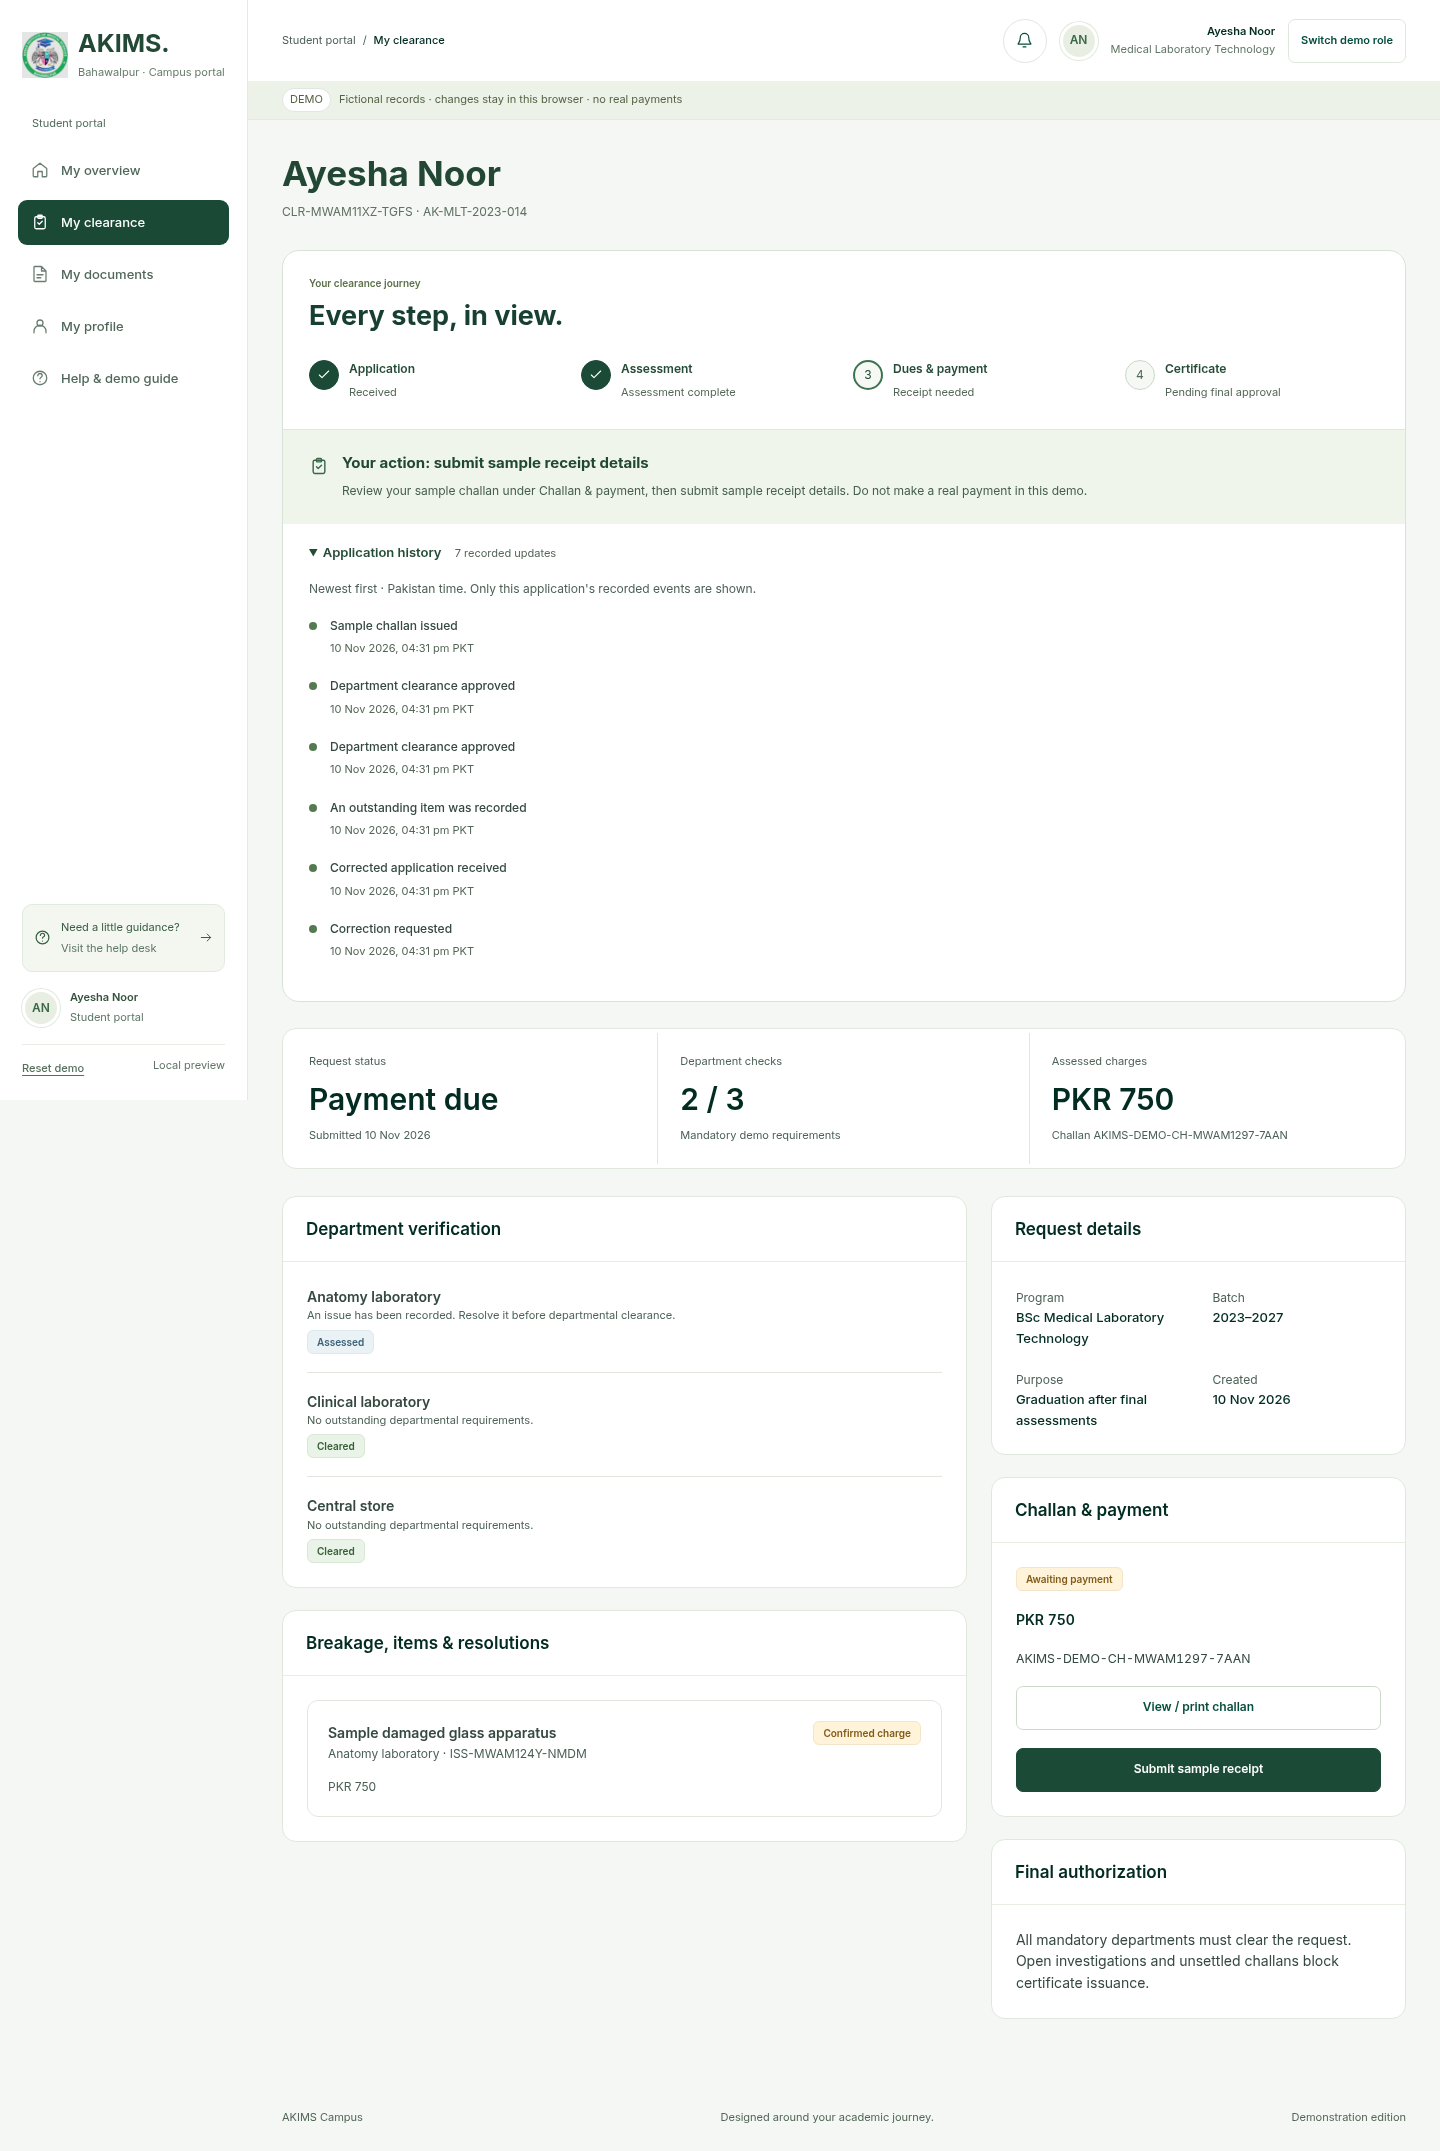
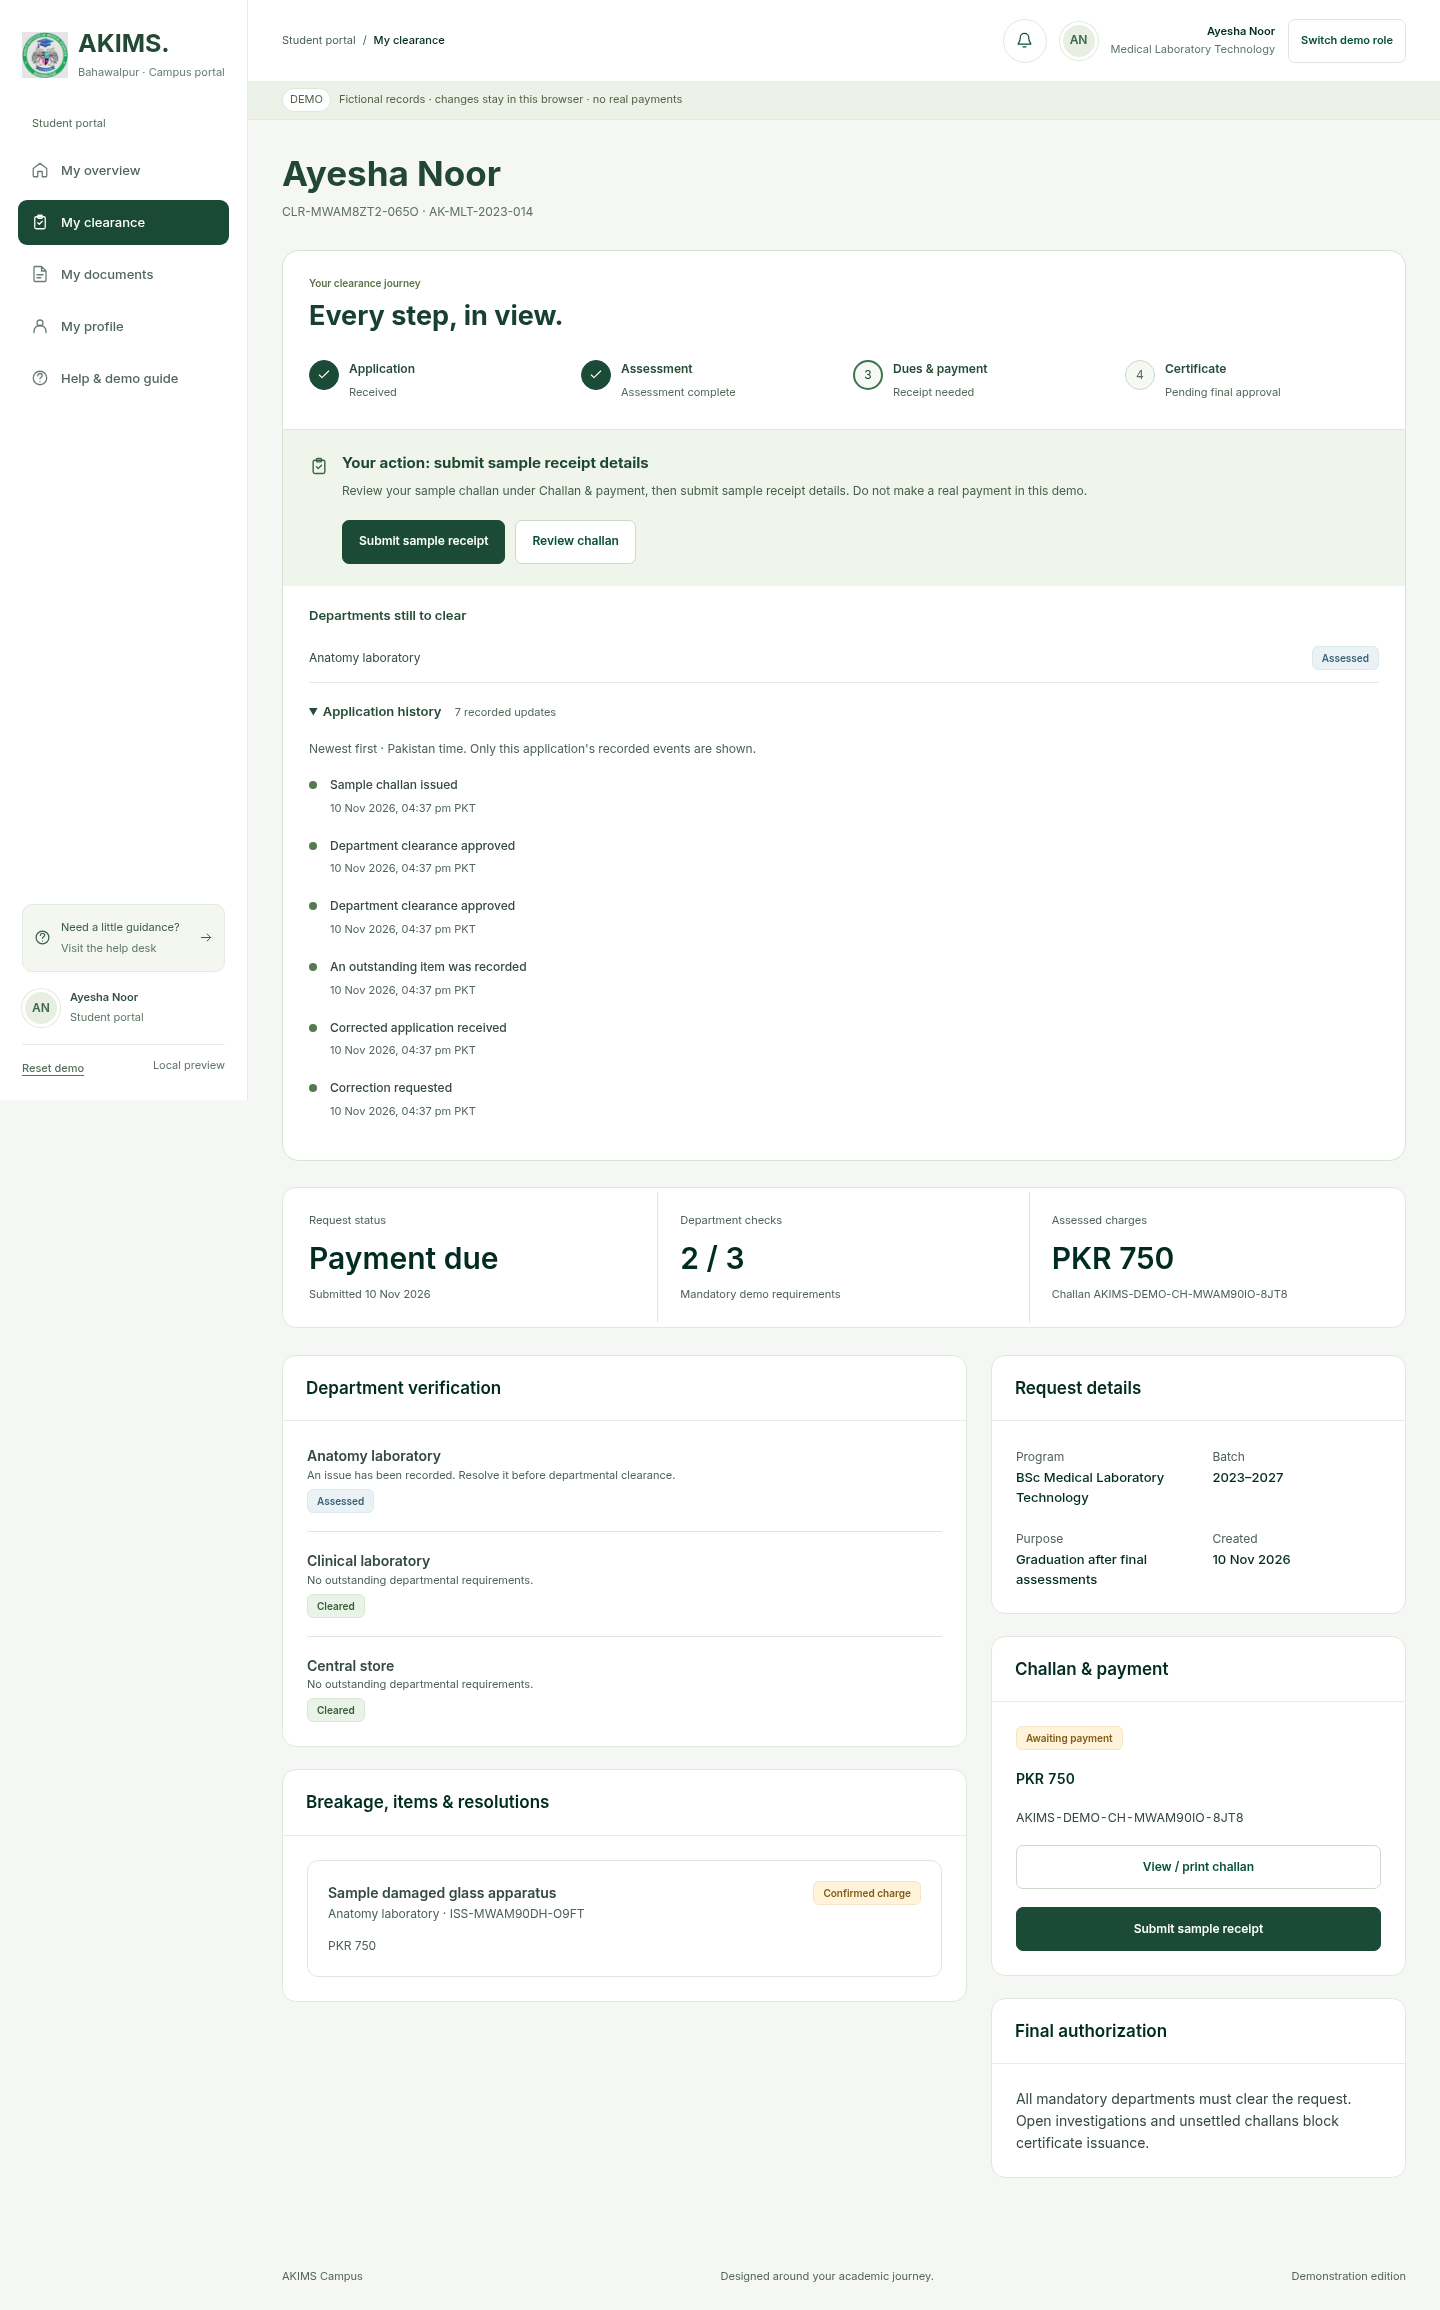
Add direct student clearance actions and pending department summary

diff --git a/script.js b/script.js
@@ -337,6 +337,16 @@
     else if (r.status === 'ready') { title = 'Waiting for final authorization'; message = 'All mandatory checks are complete. Administration must authorize clearance before a certificate becomes available.'; }
     else if (r.challan?.status === 'verified') { title = 'Payment verified; department clearance remains'; message = 'Accounts has verified the sample payment. Remaining departments must explicitly clear your request before final authorization.'; }
     else if (assessed && charges) { title = 'Administration is preparing your challan'; message = 'Confirmed dues have been assessed. Your sample challan will appear after Administration issues it.'; }
+    const actionButton = (label, control, primary = false) => button(label, 'tracking-action', `data-id="${h(r.id)}" data-control="${control}"`, primary ? 'primary' : 'secondary');
+    let shortcuts = '';
+    if (corrected) shortcuts = actionButton('Correct application', 'resubmit', true);
+    else if (revoked) shortcuts = actionButton('Contact & help', 'help', true);
+    else if (r.certificate) shortcuts = actionButton('Open certificate', 'certificate', true);
+    else if (r.challan?.status === 'unpaid') shortcuts = actionButton('Submit sample receipt', 'receipt', true) + actionButton('Review challan', 'challan');
+    else if (r.challan) shortcuts = actionButton('Review challan', 'challan');
+    const reason = corrected ? r.correctionNote : revoked ? r.certificate.reason : r.challan?.status === 'unpaid' ? r.challan.reviewNote : '';
+    const waiting = r.requirements.filter(q => q.status !== 'cleared');
+    const pending = !corrected && !revoked && !r.certificate && waiting.length ? `<div class="tracking-pending"><h3>Departments still to clear</h3><ul>${waiting.map(q => `<li><span>${h(department(q.departmentId).name)}</span>${badge(q.status)}</li>`).join('')}</ul></div>` : '';
     const labels = {createRequest:'Application received',requestCorrection:'Correction requested',resubmit:'Corrected application received',addIssue:'An outstanding item was recorded',resolveIssue:'An issue was resolved',assessDepartment:'Department assessment updated',issueChallan:'Sample challan issued',submitReceipt:'Sample receipt submitted',reviewReceipt:'Receipt review completed',finalize:'Clearance authorized; certificate issued',revokeCertificate:'Certificate revoked'};
     const events = state.audit.filter(e => e.requestId === r.id && Object.hasOwn(labels,e.action)).map(e => ({at:e.createdAt,label:e.action === 'reviewReceipt' ? (e.detail === 'Sample receipt returned for correction.' ? 'Receipt returned for correction' : 'Sample payment verified') : e.action === 'assessDepartment' && e.detail === 'Department assessment: cleared.' ? 'Department clearance approved' : labels[e.action]}));
     // Older demonstration records can lack event logs: show only dates actually stored.
@@ -345,7 +355,7 @@
     if (revoked && !events.some(e => e.label === labels.revokeCertificate)) events.push({at:r.certificate.revokedAt,label:labels.revokeCertificate});
     events.sort((a,b)=>new Date(b.at)-new Date(a.at));
     const stamp = value => new Date(value).toLocaleString('en-GB',{timeZone:'Asia/Karachi',day:'numeric',month:'short',year:'numeric',hour:'2-digit',minute:'2-digit',hour12:true});
-    return `<section class="request-tracking" aria-labelledby="tracking-title"><div class="tracking-heading"><span class="eyebrow">Your clearance journey</span><h2 id="tracking-title">Every step, in view.</h2></div><ol class="tracking-stages">${stages.map(([name,status,tone],i)=>`<li class="track-${tone}"><span class="stage-number" aria-hidden="true">${tone === 'done' ? icon('check') : i+1}</span><div><strong>${h(name)}</strong><span>${h(status)}</span></div></li>`).join('')}</ol><div class="tracking-next"><span>${icon('clipboard')}</span><div><h3>${h(title)}</h3><p>${h(message)}</p></div></div><details class="tracking-history"><summary>Application history <span>${events.length} recorded updates</span></summary><p class="small muted">Newest first · Pakistan time. Only this application's recorded events are shown.</p><ol tabindex="0" aria-label="Recorded application updates">${events.map(e=>`<li><span class="history-dot" aria-hidden="true"></span><div><strong>${h(e.label)}</strong><time datetime="${h(e.at)}">${h(stamp(e.at))} PKT</time></div></li>`).join('')}</ol></details></section>`;
+    return `<section class="request-tracking" aria-labelledby="tracking-title"><div class="tracking-heading"><span class="eyebrow">Your clearance journey</span><h2 id="tracking-title">Every step, in view.</h2></div><ol class="tracking-stages">${stages.map(([name,status,tone],i)=>`<li class="track-${tone}"><span class="stage-number" aria-hidden="true">${tone === 'done' ? icon('check') : i+1}</span><div><strong>${h(name)}</strong><span>${h(status)}</span></div></li>`).join('')}</ol><div class="tracking-next"><span>${icon('clipboard')}</span><div><h3>${h(title)}</h3><p>${h(message)}</p>${reason ? `<p class="tracking-reason"><strong>Recorded reason:</strong> ${h(reason)}</p>` : ''}${shortcuts ? `<div class="tracking-actions">${shortcuts}</div>` : ''}</div></div>${pending}<details class="tracking-history"><summary>Application history <span>${events.length} recorded updates</span></summary><p class="small muted">Newest first · Pakistan time. Only this application's recorded events are shown.</p><ol tabindex="0" aria-label="Recorded application updates">${events.map(e=>`<li><span class="history-dot" aria-hidden="true"></span><div><strong>${h(e.label)}</strong><time datetime="${h(e.at)}">${h(stamp(e.at))} PKT</time></div></li>`).join('')}</ol></details></section>`;
   }
   function requestDetail(r) {
     const s = student(r.studentId);
@@ -629,6 +639,18 @@
       if (action === 'account-help') {showDialog('Local account help', '<p>Use the email and demo password you created in this browser. Accounts do not sync between browsers or computers. Your sign-in email stays the same if you edit your profile contact email.</p><p>This offline edition cannot send reset emails. You can create another fictional account with a different registration and email, or use a sample workspace below.</p>'); return;}
       if (!actorId) return;
       const id = el.dataset.id;
+      if (action === 'tracking-action') {
+        const request = getRequest(id);
+        if (role() !== 'student' || request.studentId !== actor().studentId) throw new Error('This action is only available for your own application.');
+        const control = el.dataset.control;
+        if (control === 'help') { navigate('help'); return; }
+        const targets = {resubmit:'resubmit',receipt:'receipt',challan:'document',certificate:'document'};
+        const targetAction = targets[control];
+        const target = targetAction && [...document.querySelectorAll('main [data-action]')].find(b => b.dataset.action === targetAction && b.dataset.id === id && (!['challan','certificate'].includes(control) || b.dataset.kind === control));
+        if (!target || target.disabled) throw new Error('This action is no longer available. Review the current application status.');
+        target.click();
+        return;
+      }
       if (action === 'upload-file') showForm('Add a sample document', 'upload-file', select('Document category','category',['Student card','Academic document','Payment receipt','Other document'].map(x=>option(x,x)).join(''))+'<div class="field"><label for="sample-document">Sample file</label><input id="sample-document" name="document" type="file" accept=".pdf,.jpg,.jpeg,.png" required aria-describedby="upload-help"><p id="upload-help" class="small muted">PDF, JPEG or PNG, up to 5 MB. Use sample files only. Saving a receipt here does not verify payment.</p></div>', 'Save to my documents');
       else if (action === 'preview-file') {const f = ownedFile(id); if(previewURL) URL.revokeObjectURL(previewURL); previewURL = URL.createObjectURL(f.blob); showDialog(f.name, (f.type.startsWith('image/') ? `<img class="file-preview" src="${previewURL}" alt="Preview of ${h(f.name)}">` : '<p>Download this PDF to view it in your PDF reader.</p>')+`<p>${h(f.category)} · ${Math.ceil(f.size/1024)} KB · Saved ${date(f.createdAt)}</p>`,button('Download file','download-file',`data-id="${h(f.id)}"`));}
       else if (action === 'download-file') {const f = ownedFile(id); download(f.name,f.blob,f.type);}

diff --git a/style.css b/style.css
@@ -763,6 +763,16 @@ h2, h3 { font-weight: 700; }
 .tracking-next > span { color: #3a6548; padding-top: 2px; }
 .tracking-next h3 { color: #214832; font-size: 15px; margin: 0 0 7px; }
 .tracking-next p { font-size: 12px; line-height: 1.8; color: #465e4d; margin: 0; max-width: 820px; }
+.tracking-next > div { min-width: 0; }
+.tracking-next .tracking-reason { margin-top: 12px; padding-left: 12px; border-left: 3px solid #7d975c; overflow-wrap: anywhere; }
+.tracking-actions { display: flex; flex-wrap: wrap; gap: 10px; margin-top: 18px; }
+.tracking-actions .btn { min-height: 44px; }
+.tracking-pending { padding: 20px 26px 0; }
+.tracking-pending h3 { font: 600 13px/1.5 var(--body-font); color: #254c36; margin: 0 0 9px; }
+.tracking-pending ul { list-style: none; padding: 0; margin: 0; }
+.tracking-pending li { display: flex; justify-content: space-between; align-items: center; gap: 16px; font-size: 12px; padding: 12px 0; border-bottom: 1px solid #e3eade; }
+.tracking-pending li > span:first-child { min-width: 0; overflow-wrap: anywhere; }
+@media(max-width:580px) { .tracking-pending { padding-inline: 20px; } .tracking-actions .btn { flex: 1 1 100%; } }
 .tracking-history { padding: 0 26px; }
 .tracking-history summary { cursor: pointer; min-height: 56px; padding-block: 18px; font-size: 13px; font-weight: 600; color: #254c36; }
 .tracking-history summary:focus-visible { outline: 3px solid #608c39; outline-offset: 2px; }

diff --git a/VALIDATION.md b/VALIDATION.md
@@ -60,3 +60,9 @@ See DESIGN.md for the three fetched skills, design rationale and scope boundarie
 - Verified request-scoped event history, exclusion of internal notes, keyboard expansion, focusable scrolling, an automated WCAG A/AA scan and layouts at 320, 390, 768, 1024 and 1440 px. Reviewed the actual desktop request screenshot.
 - All 46 existing end-to-end assertions passed, including the six role dashboard accessibility scans. No runtime exceptions occurred. Workflow rules and stored data schema were unchanged.
 - Legacy records without event logs show only stored application/certificate dates. Historic department events use generic labels because existing audit entries do not store department identifiers; current named decisions remain in Department verification. Browser-only privacy and direct-file testing limitations still apply.
+
+## Direct student actions — 10 November 2026
+
+- 42 focused tracker/action checks passed, including real correction submission through the shortcut, correct challan preview, receipt keyboard activation, focus restoration, issued-certificate preview, revoked-certificate help, pending-department filtering, returned-receipt reasons and receipt-button removal during Accounts review.
+- Checked layouts at 320–1440 px and the configured accessibility scan. Reviewed the rendered desktop request screen. All 46 existing end-to-end workflow assertions passed, with no JavaScript exceptions or remote runtime resources.
+- Shortcuts reuse the existing forms and document controls; they neither settle payments nor bypass authorization. Existing request ownership checks remain in place. This remains a local demonstration, with the previously documented production and browser-testing limits.

diff --git a/README.md b/README.md
@@ -44,6 +44,8 @@ There are no network-loaded frameworks or fonts. Sample data is loaded with a re
 
 Open **My clearance** after submitting an application. A four-stage tracker shows application, assessment, dues/payment and certificate status, with the student's next action. **Application history** expands to show only that request's recorded updates in Pakistan time; internal audit notes are excluded. Receipt submission, Accounts verification and final departmental clearance remain distinct. Zero-dues, corrections, returned receipts and revoked certificates have explicit guidance.
 
+The tracker also provides direct buttons for correcting an application, reviewing a challan, submitting sample receipt details and opening an issued certificate. Returned-receipt and correction reasons appear beside the action. Only departments that still require clearance are listed in the pending summary. Revoked certificates direct the student to college contact/help.
+
 [Clearance tracker preview](assets/previews/clearance.png)
 
 ## Demonstrate a complete clearance
